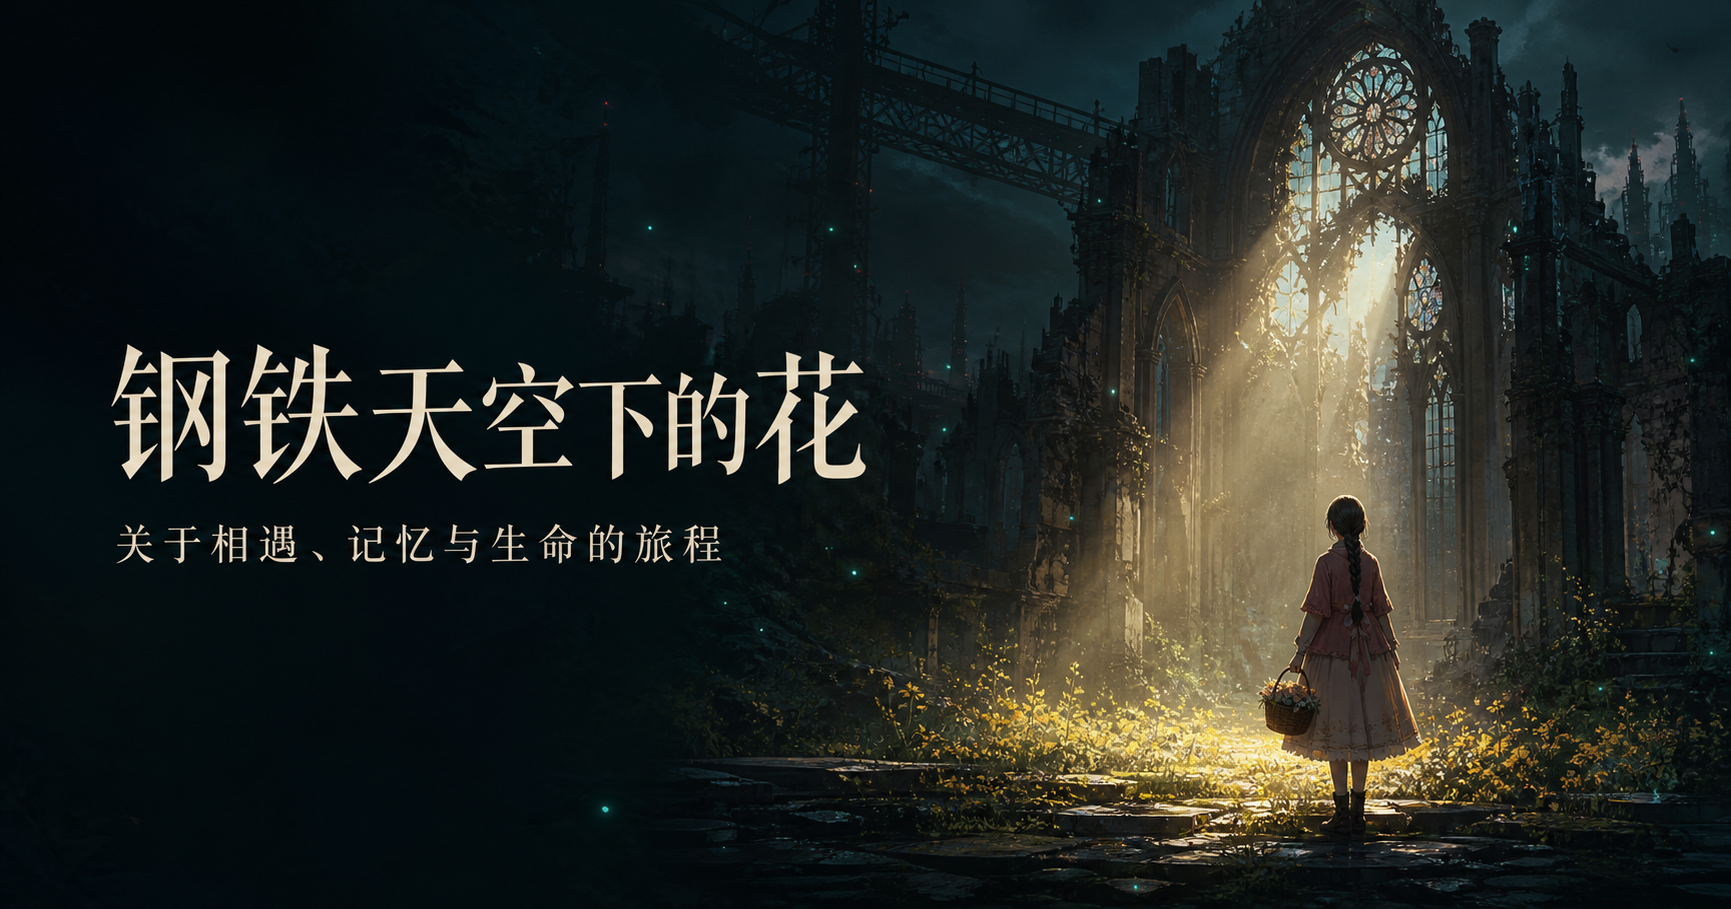
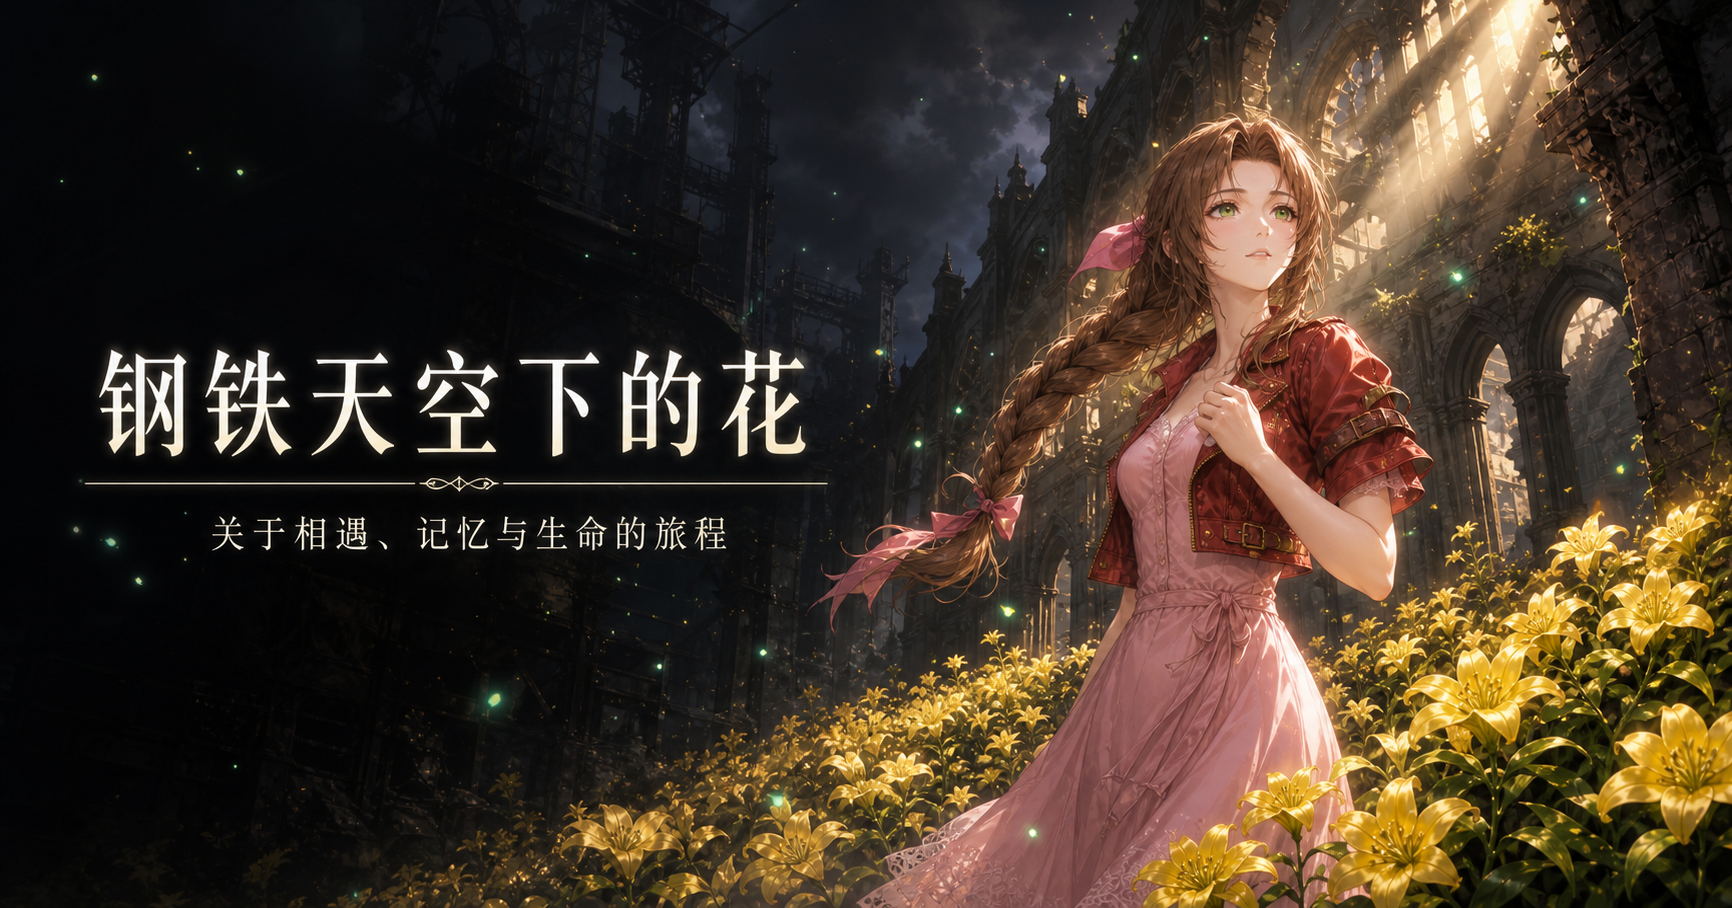
Replace geometric figures with illustrated artwork

diff --git a/app/globals.css b/app/globals.css
@@ -19,11 +19,10 @@ button { font: inherit; }
   min-height: 100svh;
   overflow: hidden;
   isolation: isolate;
-  background:
-    linear-gradient(90deg, rgba(4,16,17,.96) 0%, rgba(7,25,26,.72) 45%, rgba(8,22,23,.34) 66%, rgba(4,15,16,.82) 100%),
-    radial-gradient(circle at 68% 25%, rgba(255,239,204,.26), transparent 26%),
-    linear-gradient(145deg, #163435, #071718 72%);
+  background: #071718;
 }
+.hero-photo { position:absolute; inset:0; z-index:-3; width:100%; height:100%; object-fit:cover; object-position:58% 42%; }
+.hero::before { content:""; position:absolute; inset:0; z-index:-2; background:linear-gradient(90deg,rgba(3,17,16,.93) 0%,rgba(5,21,19,.76) 34%,rgba(4,18,16,.18) 66%,rgba(2,12,12,.26) 100%),linear-gradient(180deg,rgba(0,0,0,.2),transparent 54%,rgba(4,18,16,.78)); }
 .hero::after {
   content: ""; position: absolute; inset: 0; z-index: -1; pointer-events: none;
   background: linear-gradient(180deg, rgba(0,0,0,.08), transparent 55%, #071718 100%);
@@ -35,12 +34,6 @@ button { font: inherit; }
 .nav-links a { transition: color .25s; }
 .nav-links a:hover { color: var(--gold); }
 .nav-gift { padding: 12px 19px; border: 1px solid rgba(255,255,255,.28); border-radius: 99px; font-size: 11px; letter-spacing: .1em; }
-
-.church-light { position: absolute; z-index: -2; top: 12%; right: 7%; width: 52vw; height: 73vh; border: 2px solid rgba(207,227,208,.16); border-radius: 50% 50% 0 0; background: repeating-linear-gradient(90deg, transparent 0 21%, rgba(211,231,216,.08) 21.3% 21.7%); box-shadow: inset 0 0 120px rgba(192,241,212,.08); transform: perspective(600px) rotateY(-4deg); }
-.church-light::before { content: ""; position: absolute; inset: 12% 10%; border: 1px solid rgba(211,231,216,.16); border-radius: 50% 50% 0 0; }
-.arch { position: absolute; z-index: -1; top: 0; width: 14vw; height: 100%; background: linear-gradient(90deg,#071718,rgba(12,32,32,.8)); box-shadow: 0 0 50px rgba(0,0,0,.3); }
-.arch-left { left: 0; clip-path: polygon(0 0,100% 0,55% 100%,0 100%); }
-.arch-right { right: 0; clip-path: polygon(28% 0,100% 0,100% 100%,0 100%); }
 
 .hero-copy { position: relative; z-index: 6; padding: clamp(170px,21vh,220px) 0 180px clamp(28px,9vw,145px); width: min(750px,62vw); }
 .eyebrow { display: flex; align-items: center; gap: 14px; margin: 0 0 28px; font: 600 10px/1 Arial,sans-serif; letter-spacing: .32em; color: rgba(255,255,255,.56); }
@@ -55,23 +48,6 @@ h1 em { color: #f2c7cf; font-weight: 400; }
 .sound-action { border: 0; background: none; color: rgba(255,255,255,.58); cursor: pointer; font-size: 11px; letter-spacing: .12em; }
 .sound-bars { display: inline-block; margin-right: 9px; color: var(--lifestream); letter-spacing: -2px; transform: rotate(90deg); }
 
-.figure { position: absolute; z-index: 5; right: clamp(8vw,14vw,210px); bottom: 8vh; width: 220px; height: 64vh; filter: drop-shadow(0 22px 26px rgba(0,0,0,.42)); }
-.head { position: absolute; z-index: 4; top: 5%; left: 78px; width: 67px; height: 78px; border-radius: 46% 48% 48% 48%; background: #d6a28b; }
-.hair { position: absolute; z-index: 5; top: 1%; left: 65px; width: 92px; height: 125px; border-radius: 48% 54% 30% 30%; background: linear-gradient(90deg,#6f402c,#4b2b21); clip-path: polygon(0 0,100% 0,88% 72%,61% 55%,45% 100%,24% 63%,5% 76%); }
-.jacket { position: absolute; z-index: 3; top: 17%; left: 35px; width: 154px; height: 190px; border-radius: 35% 38% 18% 18%; background: linear-gradient(120deg,#cf7182,#8f4455); clip-path: polygon(18% 0,83% 1%,100% 72%,76% 100%,52% 65%,28% 100%,0 70%); }
-.dress { position: absolute; z-index: 2; top: 32%; left: 41px; width: 145px; height: 62%; background: linear-gradient(90deg,#c98a96,#e4a6ae 55%,#9b5969); clip-path: polygon(25% 0,76% 0,100% 100%,0 100%); }
-.ribbon { position: absolute; z-index: 8; top: 8%; left: 58px; width: 47px; height: 28px; border-radius: 90% 15%; background: #d88598; transform: rotate(18deg); }
-.ribbon-two { left: 124px; transform: scaleX(-1) rotate(18deg); }
-.basket { position: absolute; z-index: 9; top: 46%; left: -12px; width: 82px; height: 62px; border: 4px solid #8c6547; border-top: 0; border-radius: 6px 6px 32px 32px; background: repeating-linear-gradient(45deg,#a77e57 0 4px,#7d5b40 4px 8px); transform: rotate(8deg); }
-.basket::before { content:""; position:absolute; left:16px; top:-34px; width:42px; height:45px; border:4px solid #8c6547; border-bottom:0; border-radius:50% 50% 0 0; }
-.basket span { position: absolute; left: 3px; top: -10px; width: 70px; height: 20px; background: radial-gradient(circle at 15% 50%,#ffe79b 0 3px,transparent 4px),radial-gradient(circle at 36% 30%,#f5c75f 0 4px,transparent 5px),radial-gradient(circle at 62% 60%,#fff2b9 0 3px,transparent 4px),radial-gradient(circle at 82% 35%,#f3cd6d 0 4px,transparent 5px); }
-
-.flower-field { position: absolute; z-index: 4; left: 0; right: 0; bottom: -24px; height: 21vh; background: radial-gradient(ellipse at 68% 100%,rgba(81,125,75,.85),transparent 48%), linear-gradient(0deg,#0b201e,transparent); }
-.flower { position: absolute; color: #f6d36f; text-shadow: 0 0 7px rgba(255,232,146,.7); animation: sway 4s ease-in-out infinite; transform-origin: 50% 100%; }
-.flower::after { content:""; position:absolute; left:50%; top:70%; width:1px; height:70px; background:#46765d; z-index:-1; }
-.flower-1 { left: 4%; bottom: 20%; font-size: 18px; }.flower-2 { left: 12%; bottom: 5%; font-size: 11px; }.flower-3 { left: 26%; bottom: 12%; font-size: 15px; }.flower-4 { left: 45%; bottom: 3%; font-size: 12px; }.flower-5 { left: 57%; bottom: 18%; font-size: 17px; }
-.flower:nth-child(6n) { left: 69%; bottom: 8%; }.flower:nth-child(7n) { left: 78%; bottom: 23%; }.flower:nth-child(8n) { left: 88%; bottom: 11%; }.flower:nth-child(9n) { left: 95%; bottom: 2%; }
-.flower:nth-child(odd) { animation-delay: -1.7s; }.flower:nth-child(3n) { transform: translateX(22vw); animation-delay: -.6s; }
 @keyframes sway { 0%,100%{rotate:-3deg}50%{rotate:4deg} }
 
 .dust i { position: absolute; z-index: 3; width: 3px; height: 3px; border-radius: 50%; background: rgba(210,255,226,.7); box-shadow: 0 0 10px #99e5c7; animation: float 8s infinite linear; }
@@ -85,7 +61,7 @@ h1 em { color: #f2c7cf; font-weight: 400; }
 @media (max-width: 800px) {
   .nav { height: 78px; }.nav-links { display:none; }.nav-gift { padding:10px 13px; font-size:9px; }
   .hero-copy { width: 92vw; padding: 150px 24px 230px; }.intro br { display:none; }
-  .figure { right: -15px; height: 48vh; opacity:.48; }.chapter-tag{display:none}.church-light{right:-22%;width:92vw}
+  .chapter-tag{display:none}.hero-photo{object-position:62% 50%}
   .hero-actions { align-items:flex-start; flex-direction:column; gap:18px; }
 }
 
@@ -97,13 +73,10 @@ h1 em { color: #f2c7cf; font-weight: 400; }
 .section-number { display:flex; align-items:center; gap:16px; margin-bottom:clamp(60px,9vw,120px); font:9px/1 Arial,sans-serif; letter-spacing:.28em; color:#6b7773; }
 .section-number span { color:#b96e7c; font-size:24px; font-weight:300; }.section-number i{width:52px;height:1px;background:#b9b5ae}.section-number.light{color:rgba(255,255,255,.42)}
 .story-grid { display:grid; grid-template-columns:minmax(280px,.8fr) minmax(400px,1.15fr); gap:clamp(60px,10vw,160px); align-items:center; max-width:1240px; margin:auto; }
-.story-portrait { position:relative; min-height:620px; border-radius:48% 48% 12px 12px; overflow:hidden; background:radial-gradient(circle at 58% 34%,rgba(255,244,214,.95) 0 6%,transparent 7%),linear-gradient(145deg,#6d8e7a,#c6b79c 58%,#7f8f77); box-shadow:0 45px 80px rgba(42,59,51,.2); }
-.story-portrait::after { content:""; position:absolute; inset:0; background:linear-gradient(180deg,transparent 40%,rgba(15,45,40,.66)),repeating-linear-gradient(90deg,transparent 0 24%,rgba(255,255,255,.055) 24.5% 25%); }
-.halo{position:absolute;width:330px;height:330px;left:50%;top:8%;transform:translateX(-50%);border:1px solid rgba(255,248,223,.48);border-radius:50%;box-shadow:0 0 70px rgba(255,236,179,.25)}
-.portrait-braid { position:absolute; z-index:3; width:70px; height:400px; left:51%; top:25%; border-radius:50%; background:repeating-linear-gradient(145deg,#4b3024 0 25px,#6d4731 26px 49px); transform:rotate(-7deg); }
-.portrait-ribbon { position:absolute; z-index:4; left:42%; top:23%; width:88px; height:44px; border-radius:90% 12%; background:#d97f91; box-shadow:55px 6px 0 #bd6679; }
-.portrait-shoulder { position:absolute; z-index:2; width:340px; height:390px; left:50%; bottom:-110px; transform:translateX(-50%); border-radius:50% 50% 0 0; background:linear-gradient(110deg,#a94f64,#df8a9b 52%,#7c3d4e); }
-.portrait-flower { position:absolute; z-index:5; right:12%; bottom:13%; color:#f4d16e; font-size:52px; text-shadow:0 0 18px rgba(255,222,111,.5); }
+.story-portrait { position:relative; min-height:620px; border-radius:48% 48% 12px 12px; overflow:hidden; background:#486354; box-shadow:0 45px 80px rgba(42,59,51,.2); }
+.story-portrait::after { content:""; position:absolute; inset:0; pointer-events:none; background:linear-gradient(180deg,transparent 64%,rgba(10,33,28,.72)); }
+.story-portrait>img { position:absolute; inset:0; width:100%; height:100%; object-fit:cover; object-position:center 42%; }
+.portrait-caption { position:absolute; z-index:2; left:28px; right:28px; bottom:24px; color:rgba(255,255,255,.72); font:8px/1 Arial,sans-serif; letter-spacing:.22em; }
 .kicker { margin:0 0 20px; font:600 9px/1 Arial,sans-serif; letter-spacing:.32em; color:#aa6572; }
 .story-copy h2,.church-heading h2,.memories-heading h2,.garden-copy h2,.final-message h2 { margin:0; font-size:clamp(39px,5vw,75px); line-height:1.18; font-weight:400; letter-spacing:-.05em; }
 .story-copy .lead { max-width:650px; margin:35px 0 45px; color:#5b6c66; line-height:2.1; font-size:15px; letter-spacing:.04em; }
@@ -115,12 +88,10 @@ h1 em { color: #f2c7cf; font-weight: 400; }
 /* Church discovery */
 .church-section { position:relative; padding:clamp(100px,12vw,180px) 24px; background:#0a1c1c; overflow:hidden; }
 .church-heading { max-width:820px; margin:0 auto 70px; text-align:center; }.church-heading>p:last-child{color:rgba(255,255,255,.5);line-height:1.8}.church-heading h2{font-size:clamp(34px,4.5vw,68px);margin-bottom:24px}
-.discovery-stage { position:relative; max-width:1180px; min-height:650px; margin:auto; overflow:hidden; border:1px solid rgba(219,234,214,.14); background:radial-gradient(circle at 50% 20%,rgba(242,224,175,.23),transparent 27%),linear-gradient(180deg,#173233,#091919); box-shadow:0 30px 90px rgba(0,0,0,.3); }
-.stage-window { position:absolute; top:-120px; left:50%; width:500px; height:580px; transform:translateX(-50%); border:2px solid rgba(221,235,217,.15); border-radius:50% 50% 0 0; display:flex; justify-content:space-evenly; overflow:hidden; }
-.stage-window::after{content:"";position:absolute;inset:0;background:linear-gradient(112deg,transparent 44%,rgba(255,238,193,.09) 45%,rgba(255,238,193,.2) 64%,transparent 65%)}
-.stage-window i{width:1px;height:100%;background:rgba(221,235,217,.13)}
-.stage-flowers{position:absolute;left:12%;right:12%;bottom:0;height:140px;padding-top:28px;text-align:center;font-size:30px;letter-spacing:2.6vw;color:#e9c765;background:linear-gradient(0deg,#173a2f,transparent);text-shadow:0 0 12px rgba(255,218,100,.45)}
-.discovery-note { position:absolute; top:36%; left:50%; width:min(500px,80%); transform:translate(-50%,-50%); text-align:center; }
+.discovery-stage { position:relative; max-width:1180px; min-height:650px; margin:auto; overflow:hidden; border:1px solid rgba(219,234,214,.14); background:#091919; box-shadow:0 30px 90px rgba(0,0,0,.3); }
+.discovery-stage::after { content:""; position:absolute; inset:0; z-index:1; pointer-events:none; background:linear-gradient(180deg,rgba(2,13,13,.05) 10%,rgba(2,13,13,.25) 48%,rgba(2,13,13,.82) 100%); }
+.stage-image { position:absolute; inset:0; width:100%; height:100%; object-fit:cover; object-position:center; }
+.discovery-note { position:absolute; z-index:3; top:40%; left:50%; width:min(520px,80%); padding:24px; transform:translate(-50%,-50%); text-align:center; text-shadow:0 2px 18px rgba(0,0,0,.85); }
 .discovery-note>span{display:block;margin-bottom:20px;color:#e9c765;font-size:36px}.discovery-note p{margin:0;font-size:clamp(17px,2.2vw,28px);line-height:1.8;color:#f0e9dc}
 .discovery-buttons { position:absolute; z-index:4; left:50%; bottom:62px; display:flex; transform:translateX(-50%); border:1px solid rgba(255,255,255,.15); border-radius:99px; padding:7px; background:rgba(4,16,16,.72); backdrop-filter:blur(12px); }
 .discovery-buttons button { display:flex; align-items:center; gap:8px; border:0; padding:12px 18px; border-radius:99px; background:none; color:rgba(255,255,255,.5); cursor:pointer; white-space:nowrap; font-size:12px; }
@@ -134,10 +105,10 @@ h1 em { color: #f2c7cf; font-weight: 400; }
 .memory-tabs button { width:100%; display:grid; grid-template-columns:35px 1fr 24px; align-items:center; gap:10px; padding:27px 4px; border:0; border-bottom:1px solid rgba(255,255,255,.22); background:none; color:rgba(255,255,255,.5); text-align:left; cursor:pointer; }
 .memory-tabs button.active{color:white}.memory-tabs button.active span{transform:translateX(8px)}.memory-tabs small{font:9px Arial,sans-serif}.memory-tabs span{font-size:18px;transition:transform .25s}.memory-tabs i{font-style:normal}
 .memory-card { --memory-color:#f0ca73; display:grid; grid-template-columns:1fr 1fr; min-height:520px; background:#f3eee5; color:#17302e; box-shadow:0 35px 70px rgba(69,25,36,.22); }
-.memory-art { position:relative; overflow:hidden; background:radial-gradient(circle at 45% 35%,var(--memory-color),transparent 8%),linear-gradient(145deg,#153f39,#6b8a78 58%,#172b2a); }
-.memory-art::before{content:"";position:absolute;left:-30%;right:-30%;bottom:-30%;height:60%;border-radius:50%;background:var(--memory-color);opacity:.35;filter:blur(35px)}
-.memory-art span{position:absolute;width:190px;height:320px;left:50%;bottom:0;transform:translateX(-50%);border-radius:50% 50% 0 0;background:linear-gradient(110deg,#93475a,#d77d8e);box-shadow:0 0 80px rgba(255,255,255,.12)}
-.memory-art i{position:absolute;left:16%;top:15%;font-size:34px;color:var(--memory-color);font-style:normal}.memory-art b{position:absolute;right:8%;bottom:5%;font:300 100px/1 Arial,sans-serif;color:rgba(255,255,255,.13)}
+.memory-art { position:relative; overflow:hidden; background:#153f39; }
+.memory-art::before{content:"";position:absolute;z-index:1;inset:0;background:linear-gradient(180deg,transparent 55%,rgba(5,25,23,.68));pointer-events:none}
+.memory-art img{position:absolute;inset:0;width:100%;height:100%;object-fit:cover;object-position:center;transition:opacity .3s ease}
+.memory-art i{position:absolute;z-index:2;left:10%;top:9%;font-size:34px;color:var(--memory-color);font-style:normal;text-shadow:0 0 15px rgba(0,0,0,.4)}.memory-art b{position:absolute;z-index:2;right:6%;bottom:3%;font:300 100px/1 Arial,sans-serif;color:rgba(255,255,255,.18)}
 .memory-text { display:flex; flex-direction:column; justify-content:center; padding:clamp(35px,5vw,70px); }.memory-text>p{font:9px Arial,sans-serif;letter-spacing:.25em;color:#b06a77}.memory-text h3{margin:18px 0 34px;font-size:clamp(28px,3vw,43px);font-weight:400}.memory-text blockquote{margin:0;color:#64716c;font-size:15px;line-height:2.1}
 
 /* Garden */

diff --git a/app/page.tsx b/app/page.tsx
@@ -10,6 +10,8 @@ const memories = [
     subtitle: 'A CHANCE ENCOUNTER',
     text: '阳光穿过破损的屋顶，她从花丛里抬头。陌生人的脚步声，就这样成了一段旅程的开始。',
     color: '#e0b6bd',
+    image: '/memory-01-v2.png',
+    alt: '爱丽丝在阳光照进的教堂花田中抬头',
   },
   {
     id: 'promise',
@@ -18,6 +20,8 @@ const memories = [
     subtitle: 'WORDS LEFT UNSAID',
     text: '有些记忆并不会消失。它们只是变成风、变成雨，藏进每一次似曾相识的回眸里。',
     color: '#f0ca73',
+    image: '/memory-02-v2.png',
+    alt: '爱丽丝在雨后的旧站台握着一朵黄花回望',
   },
   {
     id: 'stars',
@@ -26,6 +30,8 @@ const memories = [
     subtitle: 'UNDER THE OPEN SKY',
     text: '她害怕天空，却仍愿意走向它。因为真正重要的，从来不是命运写下了什么，而是如何选择微笑。',
     color: '#81d8bb',
+    image: '/memory-03-v2.png',
+    alt: '爱丽丝站在高处仰望生命之流光点与晨空',
   },
 ];
 
@@ -110,6 +116,7 @@ export default function Home() {
   return (
     <main>
       <section className="hero" id="home">
+        <img className="hero-photo" src="/hero-cover.png" alt="躺在黄色花海中向前伸手的爱丽丝" />
         <nav className="nav" aria-label="主导航">
           <a className="brand" href="#home" aria-label="返回首页">
             <span className="brand-flower">✦</span>
@@ -123,9 +130,6 @@ export default function Home() {
           <a className="nav-gift" href="#garden">留下一朵花 ↗</a>
         </nav>
 
-        <div className="church-light" aria-hidden="true" />
-        <div className="arch arch-left" aria-hidden="true" />
-        <div className="arch arch-right" aria-hidden="true" />
         <div className="dust" aria-hidden="true">
           {Array.from({ length: 18 }).map((_, index) => <i key={index} />)}
         </div>
@@ -142,20 +146,6 @@ export default function Home() {
           </div>
         </div>
 
-        <div className="figure" aria-hidden="true">
-          <div className="ribbon ribbon-one" />
-          <div className="ribbon ribbon-two" />
-          <div className="head" />
-          <div className="hair" />
-          <div className="jacket" />
-          <div className="dress" />
-          <div className="basket"><span /></div>
-        </div>
-
-        <div className="flower-field" aria-hidden="true">
-          {Array.from({ length: 28 }).map((_, index) => <span className={`flower flower-${(index % 5) + 1}`} key={index}>✦</span>)}
-        </div>
-
         <aside className="chapter-tag">
           <span>CHAPTER</span><strong>01</strong><i /><p>THE FLOWER<br />GIRL</p>
         </aside>
@@ -165,12 +155,9 @@ export default function Home() {
       <section className="story-section" id="story">
         <div className="section-number"><span>01</span><i /> THE FLOWER GIRL</div>
         <div className="story-grid">
-          <div className="story-portrait" aria-hidden="true">
-            <span className="halo" />
-            <span className="portrait-braid" />
-            <span className="portrait-ribbon" />
-            <span className="portrait-shoulder" />
-            <span className="portrait-flower">✦</span>
+          <div className="story-portrait">
+            <img src="/story-portrait-v2.png" alt="爱丽丝在废墟教堂的黄色花田中提着花篮" />
+            <span className="portrait-caption">ORIGINAL REIMAGINING · CHURCH IN BLOOM</span>
           </div>
           <div className="story-copy">
             <p className="kicker">A FLOWER BLOOMING IN THE SLUMS</p>
@@ -193,8 +180,7 @@ export default function Home() {
           <p>选择一个角落，发现留在这里的小小回声。</p>
         </div>
         <div className="discovery-stage">
-          <div className="stage-window" aria-hidden="true"><i /><i /><i /></div>
-          <div className="stage-flowers" aria-hidden="true">✦　✦　✦　✦　✦　✦</div>
+          <img className="stage-image" src="/church-scene-v2.png" alt="爱丽丝提着花篮走在洒满阳光的废墟教堂中" />
           <div className="discovery-note" aria-live="polite">
             <span>{discoveries[discovery].icon}</span>
             <p>{discoveries[discovery].note}</p>
@@ -224,7 +210,10 @@ export default function Home() {
             ))}
           </div>
           <article className="memory-card" role="tabpanel" style={{ '--memory-color': memories[activeMemory].color } as React.CSSProperties}>
-            <div className="memory-art" aria-hidden="true"><span /><i>✦</i><b>{memories[activeMemory].number}</b></div>
+            <div className="memory-art">
+              <img src={memories[activeMemory].image} alt={memories[activeMemory].alt} />
+              <i aria-hidden="true">✦</i><b aria-hidden="true">{memories[activeMemory].number}</b>
+            </div>
             <div className="memory-text">
               <p>{memories[activeMemory].subtitle}</p>
               <h3>{memories[activeMemory].title}</h3>

diff --git a/app/layout.tsx b/app/layout.tsx
@@ -9,7 +9,7 @@ export const metadata: Metadata = {
     description: '关于相遇、记忆与生命的旅程',
     type: 'website',
     locale: 'zh_CN',
-    images: [{ url: '/og.png', width: 1731, height: 909, alt: '钢铁天空下的花' }],
+    images: [{ url: '/og.png', width: 1732, height: 908, alt: '钢铁天空下的花' }],
   },
   twitter: {
     card: 'summary_large_image',
